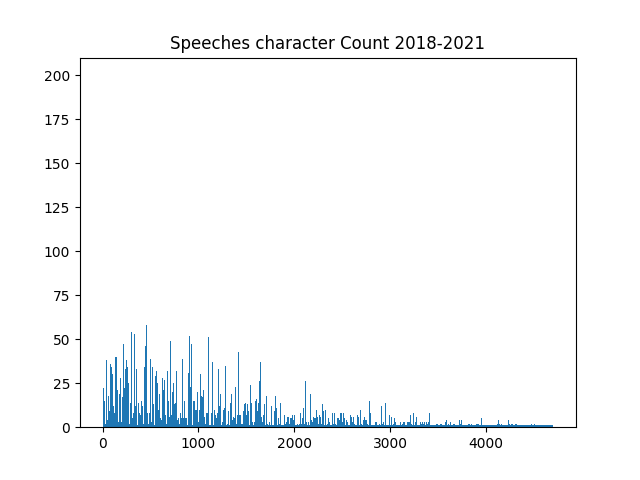
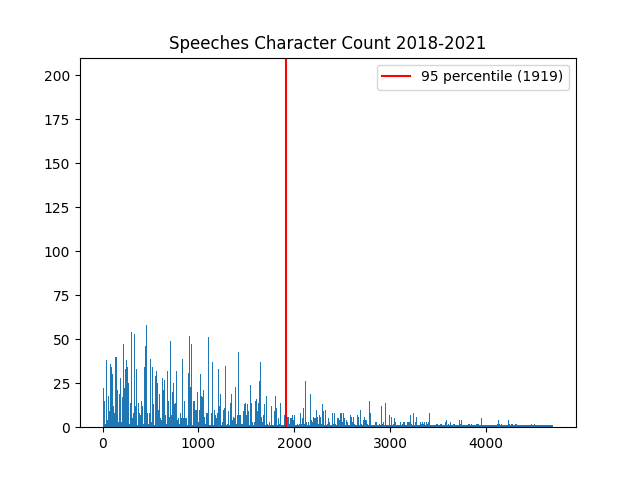
finished plot of text length

Changed region(s): [[0.25, 0.0625, 0.875, 0.1875], [0.5938, 0.1562, 0.625, 0.1875]]

diff --git a/scripts/tools_plot.py b/scripts/tools_plot.py
@@ -7,6 +7,7 @@ import matplotlib.dates as dates
 from collections import Counter
 import matplotlib.pyplot as plt
 from tools_data import saveJSON
+from tools_counter import getCounterPercentile
 
 
 def plotGraph(df: pd.DataFrame, category: str, dataKey: str, saveFigDirectoryPath=None, verbose=False, startYear=2000,endYear=2050, dropNA=False) -> plt:
@@ -64,16 +65,30 @@ def plotGraph(df: pd.DataFrame, category: str, dataKey: str, saveFigDirectoryPat
 
 def plotCounterHistogram(counter: Counter, category="text_length", saveFigDirectoryPath=None, saveJSONFile=True, showPlot=False, startYear=None, endYear=None):
     plt.clf()
+
+
     labels, values = zip(*counter.items())
+    
+    
+
 
     indexes = np.arange(len(labels))
     width = 1
 
     plt.bar(indexes, values, width)
-    title = "Speeches "+category+" Count"
+
+    percentile95 = getCounterPercentile(95,counter)
+    plt.axvline(x=percentile95, color="red", label="95 percentile ("+str(percentile95)+")")
+
+    # mean, variance, std_dev = getCounterStats(counter)
+    # plt.axvline(x=percentile95, color="green", label="mean")
+    # plt.axvline(x=percentile95, color="yellow", label="median")
+
+    title = "Speeches "+str.title(category)+" Count"
     if startYear is not None:
         title = title + " " + str(startYear) + "-" +  str(endYear)
     plt.title(title)
+    plt.legend()
 
     if showPlot is True:
         plt.show()
@@ -87,3 +102,4 @@ def plotCounterHistogram(counter: Counter, category="text_length", saveFigDirect
         plt.savefig(plotPath)
         if saveJSONFile:
             saveJSON(dict(counter), os.path.join(saveFigDirectoryPath, filename + ".json"))
+

diff --git a/scripts/tools_counter.py b/scripts/tools_counter.py
@@ -1,0 +1,22 @@
+from collections import Counter
+import math
+
+def getCounterPercentile(percentile: int,counter: Counter):
+    total = sum(counter.values())
+    current = 0
+    for item in counter.items():
+        if current/total > percentile/100:
+            return item[0]
+        current += item[1]
+
+# def getCounterStats(counter: Counter):
+#     sum_of_numbers = sum(number*count for number, count in counter.items())
+#     count = sum(count for n, count in counter.items())
+#     mean = sum_of_numbers / count
+#     total_squares = sum(number*number * count for number, count in counter)
+#     mean_of_squares = total_squares / count
+#     variance = mean_of_squares - mean * mean
+#     std_dev = math.sqrt(variance)
+#     #Source: https://stackoverflow.com/a/33695469
+
+#     return mean, variance, std_dev

diff --git a/scripts/tools_analysis.py b/scripts/tools_analysis.py
@@ -193,3 +193,4 @@ def countInSpeech(category: str, filePaths: list, plotsDir: str, startYear=None,
                 cnt[len(speech["text"])] += 1
 
     plot = plotCounterHistogram(cnt,category, plotsDir, startYear=startYear, endYear=endYear)
+
